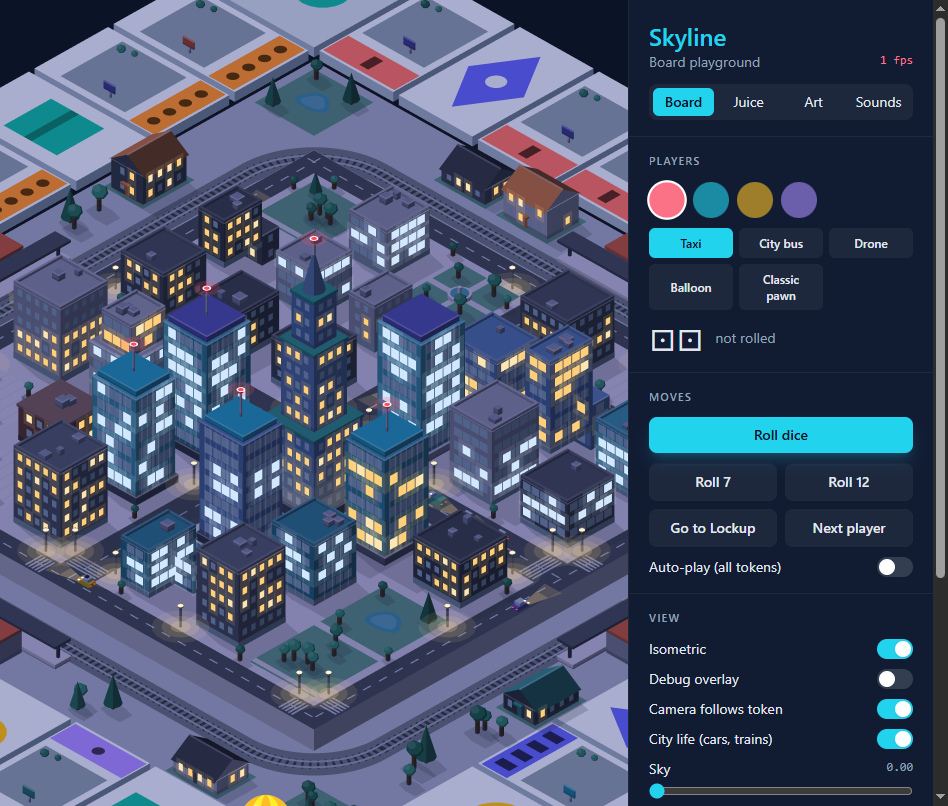
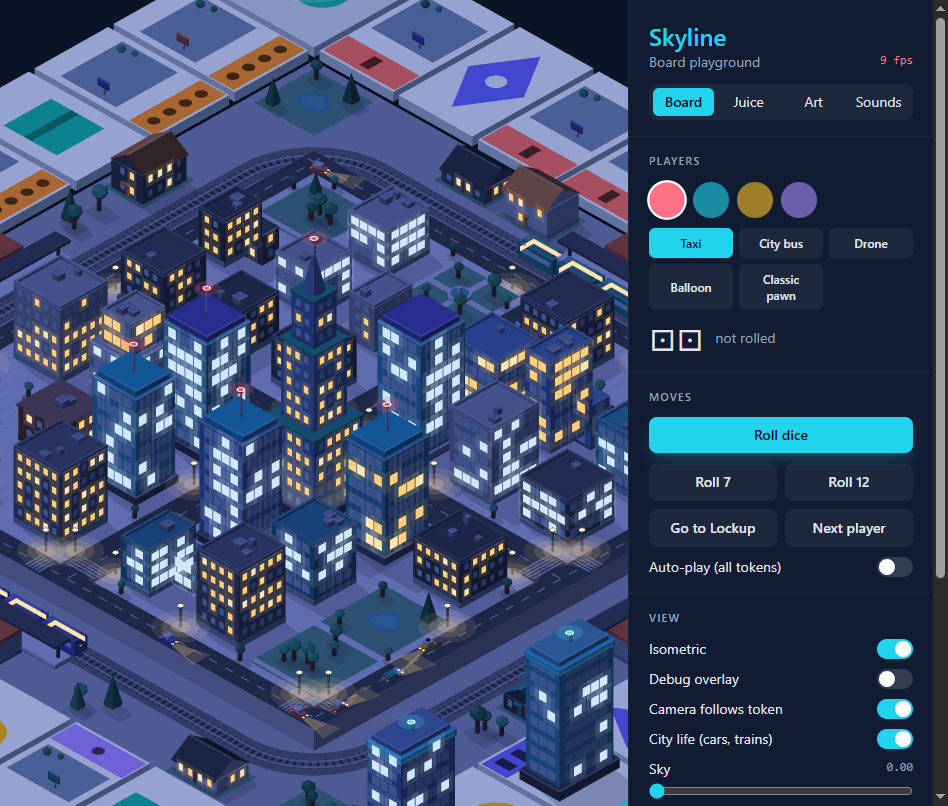
Milestone 7: windows switch through the night, build flare, set-completion ring pulse
At night a few buildings at a time switch a share of their windows on or
off (a second per-building lights layer, one flag flip about every half
second). A new building's windows flare on at impact, fully for a hotel,
and fade over ~1.6 s, day or night. Completing a set sends a light pulse
in the owner's color from the set around the whole ring (off with
reduced motion). All cosmetic, per-frame cost a few tile alphas.

diff --git a/packages/board/src/view/city.ts b/packages/board/src/view/city.ts
@@ -11,6 +11,8 @@ import { Ambient } from './ambient.ts'
 import { GROUND_Z, PLINTH_Z, planCity, type BeltItem, type CityPlan, type Station } from './cityPlan.ts'
 
 const SLAB_Z = -0.1
+/** Real ms between window switches at night. */
+const FLIP_MS = 450
 
 /** Table shadow and the board slab. The city sits on top of it (CityView). */
 export class GroundView {
@@ -33,6 +35,9 @@ export class GroundView {
 interface Part {
   body: Graphics
   lights: Graphics
+  /** Windows that switch on and off over the night, and whether they are on now. */
+  alt: Graphics
+  altOn: boolean
   beacons: Graphics
 }
 
@@ -49,8 +54,14 @@ interface Layer {
 }
 
 function addPart(l: Layer): Part {
-  const part = { body: new Graphics(), lights: new Graphics(), beacons: new Graphics() }
-  l.c.addChild(part.body, part.lights, part.beacons)
+  const part = {
+    body: new Graphics(),
+    lights: new Graphics(),
+    alt: new Graphics(),
+    altOn: l.parts.length % 3 !== 0,
+    beacons: new Graphics(),
+  }
+  l.c.addChild(part.body, part.lights, part.alt, part.beacons)
   l.parts.push(part)
   return part
 }
@@ -69,6 +80,10 @@ export class CityView {
   private readonly layers = new Map<number, Layer>()
   private readonly actors: Container
   private night = 0
+  private flipClock = 0
+  /** Parts that have switchable windows (collected after each redraw). */
+  private switchers: Part[] = []
+  private readonly flipRng = cosmeticRng(4242)
   /** Cars and trains driving the streets and the rail loop. */
   readonly life: Ambient
 
@@ -82,7 +97,7 @@ export class CityView {
   /** Number of Graphics objects the city uses (for profiling). */
   get graphicsCount(): number {
     let n = 0
-    for (const l of this.layers.values()) n += l.parts.length * 3
+    for (const l of this.layers.values()) n += l.parts.length * 4
     return n + 1 + this.life.graphicsCount
   }
 
@@ -105,9 +120,28 @@ export class CityView {
         part.body.tint = tint
         part.lights.alpha = glow
         part.lights.visible = glow > 0.01
+        part.alt.alpha = part.altOn ? glow : 0
+        part.alt.visible = glow > 0.01 && part.altOn
         part.beacons.visible = glow > 0.01
       }
     this.life.setNight(n)
+  }
+
+  /**
+   * At night, now and then a building switches some of its windows on or off (real time, cosmetic
+   * RNG). Costs one flag flip every half second or so.
+   */
+  tickLights(realMs: number): void {
+    const glow = lightsAt(this.night)
+    if (glow <= 0.01) return
+    this.flipClock += realMs
+    if (this.flipClock < FLIP_MS) return
+    this.flipClock = 0
+    const part = this.switchers[Math.floor(this.flipRng() * this.switchers.length)]
+    if (!part) return
+    part.altOn = !part.altOn
+    part.alt.alpha = part.altOn ? glow : 0
+    part.alt.visible = part.altOn
   }
 
   /** Beacon brightness (night level times the blink), set each frame by the board. */
@@ -123,6 +157,7 @@ export class CityView {
       for (const part of l.parts) {
         part.body.clear()
         part.lights.clear()
+        part.alt.clear()
         part.beacons.clear()
       }
       l.used = 1
@@ -139,15 +174,23 @@ export class CityView {
       }
       const slice = l
       const top = slice.parts[slice.used - 1]!
-      const paint: Paint = { g: top.body, lights: top.lights, beacons: top.beacons, t, style }
+      const paint: Paint = {
+        g: top.body,
+        lights: top.lights,
+        lightsAlt: top.alt,
+        beacons: top.beacons,
+        t,
+        style,
+      }
       paint.mark = () => {
         // Only split once the current part has lights; unlit things share a part.
         const cur = slice.parts[slice.used - 1]!
-        if (cur.lights.context.instructions.length === 0) return
+        if (cur.lights.context.instructions.length === 0 && cur.alt.context.instructions.length === 0) return
         const next = slice.parts[slice.used] ?? addPart(slice)
         slice.used++
         paint.g = next.body
         paint.lights = next.lights
+        paint.lightsAlt = next.alt
         paint.beacons = next.beacons
       }
       return paint
@@ -171,6 +214,9 @@ export class CityView {
     for (const item of plan.belt) drawBelt(layer(depth(item.lot)), item)
     for (const s of plan.stations) drawStation(layer(depth(s.hall)), s)
     this.life.setView(t)
+    this.switchers = [...this.layers.values()]
+      .flatMap((l) => l.parts.slice(0, l.used))
+      .filter((part) => part.alt.context.instructions.length > 0)
     this.setNight(this.night)
   }
 }

diff --git a/packages/board/src/board.ts b/packages/board/src/board.ts
@@ -16,6 +16,9 @@ import { TokenView } from './view/token.ts'
 
 /** Real-time milliseconds for a full day-to-night (or back) fade. */
 const NIGHT_FADE_MS = 4000
+/** Ring light pulse: delay per tile away from the set, and how long it lights each tile. */
+const WAVE_STEP_MS = 45
+const WAVE_LEN_MS = 420
 
 /** Runtime switches. Feel numbers live in `JuiceConfig` (juice/config.ts). */
 export interface BoardTuning {
@@ -101,6 +104,8 @@ export class Board {
   /** Day/night level shown, and the level it eases toward. */
   private night = 0
   private nightTarget = 0
+  /** The set-completion light pulse running around the ring, if any. */
+  private ringWave: { origin: number; ms: number; color: number } | null = null
   /** Real-time clock for the beacon blink. */
   private beaconClock = 0
   /** Remaining hit-stop: the world crawls while the camera (and its shake) keeps running. */
@@ -396,6 +401,8 @@ export class Board {
       grow: 1.6,
     })
     this.addTrauma(level === 5 ? b.hotelTrauma : b.trauma)
+    // The new building lights up: a hotel fully, houses a little.
+    tile.flareLights(level === 5 ? 1 : 0.5)
     this.emit({ kind: 'build', space: tile.index, level })
   }
 
@@ -407,7 +414,11 @@ export class Board {
     this.hitStop(c.hitStopMs)
     this.addTrauma(c.trauma)
     await this.animator.wait(c.hitStopMs * 0.5)
+    // A pulse of light in the owner's color runs from the set around the whole ring.
+    if (!this.tuning.reducedMotion && spaces.length > 0)
+      this.ringWave = { origin: spaces[Math.floor(spaces.length / 2)]!, ms: 0, color }
     for (const [step, space] of spaces.entries()) {
+      this.tiles[space]!.flareLights(0.9)
       const tile = this.tiles[space]!
       tile.lift.kick(c.lift)
       tile.flash = 1
@@ -621,6 +632,8 @@ export class Board {
     this.animator.step(dt)
     const t = this.viewT
     this.veilBuildings()
+    this.stepRingWave(real)
+    this.city.tickLights(real)
     for (const tile of this.tiles) tile.update(dt, t, this.animator.speed)
     this.blinkBeacons(real)
     for (const token of this.tokens.values()) {
@@ -641,6 +654,21 @@ export class Board {
       const p = this.world.toGlobal(project({ ...c, z: this.tiles[this.hovered]!.lift.value }, t))
       this.listeners.hoverPosition(p.x, p.y)
     }
+  }
+
+  /** Moves the set-completion light pulse around the ring (real time). */
+  private stepRingWave(realMs: number): void {
+    const w = this.ringWave
+    if (!w) return
+    w.ms += realMs
+    const done = w.ms > 20 * WAVE_STEP_MS + WAVE_LEN_MS
+    for (const tile of this.tiles) {
+      const gap = Math.abs(tile.index - w.origin)
+      const local = w.ms - Math.min(gap, 40 - gap) * WAVE_STEP_MS
+      tile.wave = !done && local > 0 && local < WAVE_LEN_MS ? Math.sin((Math.PI * local) / WAVE_LEN_MS) : 0
+      tile.waveColor = w.color
+    }
+    if (done) this.ringWave = null
   }
 
   /** Pieces stand in front of their own tile's building; a tall one next to them toward the camera fades. */

diff --git a/packages/board/src/view/tiles.ts b/packages/board/src/view/tiles.ts
@@ -83,6 +83,11 @@ export class TileView {
   private veil = 0
   /** Set by the board when pieces rest on the tile this building could cover. */
   veiled = false
+  /** 0..1 window flare after a build (see flareLights). */
+  private flare = 0
+  /** Ring light wave passing over this tile (set by the board each frame) and its color. */
+  wave = 0
+  waveColor = 0xffffff
   /** A hotel's blinking roof beacon (the board blinks it). */
   private readonly buildingBeacons = new Graphics()
   private readonly rim = new Graphics()
@@ -132,7 +137,6 @@ export class TileView {
     this.base.tint = nightTint(NIGHT.tiles, n, 0.5)
     this.building.tint = nightTint(NIGHT.city, n)
     const glow = lightsAt(n)
-    this.buildingLights.visible = glow > 0.01
     this.applyAlpha()
     this.buildingBeacons.visible = glow > 0.01
   }
@@ -217,7 +221,16 @@ export class TileView {
   /** Building opacity: mortgage dimming times the veil; its lights follow. */
   private applyAlpha(): void {
     this.building.alpha = this.baseAlpha * (1 - VEIL * this.veil)
-    this.buildingLights.alpha = lightsAt(this.night) * this.building.alpha
+    // A fresh building flares its windows on (day or night), then settles to the night level.
+    const lit = Math.max(lightsAt(this.night), this.flare)
+    this.buildingLights.alpha = lit * this.building.alpha
+    this.buildingLights.visible = lit > 0.01
+  }
+
+  /** Lights the building's windows up for a moment (new building, hotel), fading over ~1.6 s. */
+  flareLights(strength: number): void {
+    this.flare = Math.max(this.flare, strength)
+    this.applyAlpha()
   }
 
   /** Lifts the building by the height it still has to fall. */
@@ -266,8 +279,17 @@ export class TileView {
     this.pulseClock += dtMs
     if (this.flash > 0) this.flash = Math.max(0, this.flash - dtMs / 450)
     const pulse = this.selected ? 0.75 + 0.25 * Math.sin(this.pulseClock / 160) : 0
-    this.rim.alpha = Math.max(this.hovered ? 1 : 0, pulse, this.flash)
-    this.rim.tint = this.selected ? palette.select : palette.hover
+    this.rim.alpha = Math.max(this.hovered ? 1 : 0, pulse, this.flash, this.wave * 0.9)
+    this.rim.tint =
+      this.wave > Math.max(pulse, this.flash) && !this.hovered
+        ? this.waveColor
+        : this.selected
+          ? palette.select
+          : palette.hover
+    if (this.flare > 0) {
+      this.flare = Math.max(0, this.flare - dtMs / 1600)
+      this.applyAlpha()
+    }
 
     // Fade a tall building while pieces stand just behind it (eased, so it never pops).
     const { owner, level } = this.deco

diff --git a/packages/board/src/art/paint.ts b/packages/board/src/art/paint.ts
@@ -19,6 +19,8 @@ export interface Paint {
    * as night falls. Optional: the art page and day-only callers leave it out.
    */
   lights?: Graphics
+  /** Optional second lights layer for windows that switch on and off over the night. */
+  lightsAlt?: Graphics
   /** Blinking night beacons (tower tips, hotel roofs), right above `lights`; the board blinks it. */
   beacons?: Graphics
   /**
@@ -527,11 +529,14 @@ export function windows(
     const at = pts[0]!
     const floorLit = hash3(col0 + row0, z0, Math.round(at.z * 50)) < 0.75
     const k = hash3(at.col, at.row, at.z)
-    if (!floorLit || k > LIT_AT_NIGHT) return
+    // Windows near the lit/unlit threshold go into `lightsAlt`: they switch on and off at night.
+    const flicker = p.lightsAlt && Math.abs(k - LIT_AT_NIGHT) < 0.09
+    if (!flicker && (!floorLit || k > LIT_AT_NIGHT)) return
+    const target = flicker ? p.lightsAlt! : lights
     const color = cool ? NIGHT.cool : k < LIT_AT_NIGHT * 0.25 ? NIGHT.soft : NIGHT.warm
     // A soft halo first (the pane grown around its center), then the pane: cheap static "bloom".
-    lights.poly(grow(poly, 2.1)).fill({ color, alpha: 0.13 })
-    lights.poly(poly).fill(color)
+    target.poly(grow(poly, 2.1)).fill({ color, alpha: 0.13 })
+    target.poly(poly).fill(color)
   }
   for (let f = 0; f < floors; f++) {
     const za = z0 + base + f * fh + fh * (opts.ribbon ? 0.22 : 0.3)

diff --git a/docs/ROADMAP.md b/docs/ROADMAP.md
@@ -112,7 +112,7 @@ Acceptance: the board looks coherent in the chosen style and at least as neat as
 
 ## Milestone 7: Living board
 
-Status 2026-10-25: traffic and trains on the board with a "City life" toggle (D29); day/night (D28): an 8-round auto cycle with a Sky preference (Auto / Day / Night), a golden-hour dusk into a blue night, lit windows with soft halos, street-lamp pools, headlights and tail lights, lit train cars, floodlit landmark base, blinking beacons on tower tips and hotels (owner color), light pools under tokens; tiles and pieces stay readable. Screenshots: `docs/screenshots/m7-*.png`. Still to do: windows switching on and off over time, event flourishes (hotel lights up, set-completion light pulse), and the developer's real-GPU frame-time check.
+Status 2026-10-25: traffic and trains on the board with a "City life" toggle (D29); day/night (D28): an 8-round auto cycle with a Sky preference (Auto / Day / Night), a golden-hour dusk into a blue night, lit windows with soft halos, street-lamp pools, headlights and tail lights, lit train cars, floodlit landmark base, blinking beacons on tower tips and hotels (owner color), light pools under tokens; tiles and pieces stay readable. Screenshots: `docs/screenshots/m7-*.png`. Also done (2026-10-25): windows switching on and off through the night, a new building's windows flare on at impact (fully for a hotel), a light pulse in the owner's color runs around the ring when a set completes, and pieces stand on a strip in front of buildings (D30). Pending: the developer's real-GPU frame-time check and feel review.
 
 - `clock.night` driven day/night cycle: multiply tint plus additive window-light layer (from the known window geometry).
 - Night lights (faked 2D lighting, no real-time shadows): street-lamp glow pools on the ground, car headlights and tail lights that move with traffic, lit train windows, landmark floodlights, windows switching on and off over time. Lights fade in at dusk.
